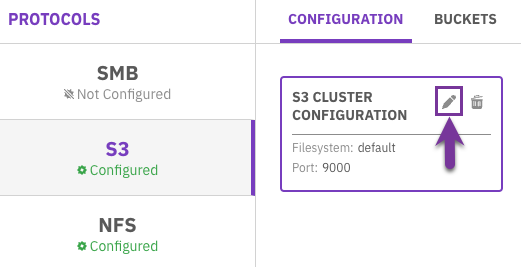
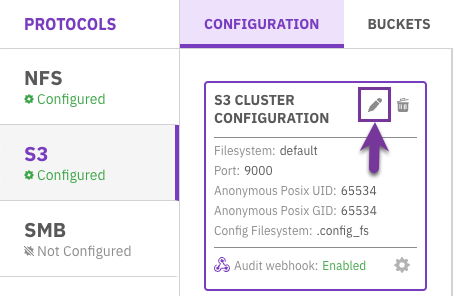
GITBOOK-366: S3: add comment about domain change + update screens (WEKAAPP-343301: v4.2.6)

diff --git a/additional-protocols/s3/s3-cluster-management/s3-cluster-management-1.md b/additional-protocols/s3/s3-cluster-management/s3-cluster-management-1.md
@@ -26,7 +26,7 @@ Use the following command line to create an S3 cluster:
 
 **Parameters**
 
-<table><thead><tr><th>Name</th><th width="327">Value</th><th>Default</th></tr></thead><tbody><tr><td><code>default-fs-name</code>*</td><td>The filesystem name to be used for the S3 service.</td><td></td></tr><tr><td><code>config-fs-name</code>*</td><td>The predefined filesystem name for maintaining the persisting cluster-wide protocol configurations.<br>Ensure the filesystem is already created. If not, create a filesystem with 100 GB capacity.</td><td></td></tr><tr><td><code>port</code></td><td>The port where the S3 service is exposed.<br>Do not set port 9001.</td><td>9000</td></tr><tr><td><code>key</code></td><td>The object store bucket access key ID.</td><td>As set when <a href="../../../fs/managing-object-stores/managing-object-stores-1.md#add-an-object-store-bucket">adding an object store bucket</a>.</td></tr><tr><td><code>secret</code></td><td>The object store bucket secret key.</td><td>As set when <a href="../../../fs/managing-object-stores/managing-object-stores-1.md#add-an-object-store-bucket">adding an object store bucket</a>.</td></tr><tr><td><code>max-buckets-limit</code></td><td>The maximum number of buckets that can be created.<br>Maximum value: 10000.</td><td></td></tr><tr><td><code>anonymous-posix-uid</code></td><td>POSIX UID for objects (when accessed via POSIX) created with anonymous access (for buckets with an IAM policy allowing that).</td><td>65534</td></tr><tr><td><code>anonymous-posix-gid</code></td><td>POSIX GID for objects (when accessed via POSIX) created with anonymous access (for buckets with an IAM policy allowing that).</td><td>65534</td></tr><tr><td><code>domain</code></td><td><p>Virtual hosted-style comma-separated domains.</p><p>Maximum number of characters: 1024.</p><p>Example: <code>--domain sub1.domain-name.com,sub3.domain-name.com</code>.<br>To remove the existing domain, set <code>""</code>.<br>Example: <code>--domain ""</code>.</p></td><td></td></tr><tr><td><code>container-id</code>*</td><td>Container IDs with a frontend process to serve the S3 service.<br>To ensure redundancy and fault tolerance a minimum of two containers is required for the S3 cluster. However, it is possible to create a single-container S3 cluster, which means there will be no redundancy.<br>If you add <code>all-servers</code> to the command, do not specify the list of containers in the <code>container-id</code> parameter.</td><td></td></tr><tr><td><code>all-servers</code>*</td><td>Use all backend servers to serve S3 commands.<br>If you add <code>all-servers</code> to the command, do not specify the list of containers in the <code>container-id</code> parameter.</td><td>None</td></tr></tbody></table>
+<table><thead><tr><th>Name</th><th width="327">Value</th><th>Default</th></tr></thead><tbody><tr><td><code>default-fs-name</code>*</td><td>The filesystem name to be used for the S3 service.</td><td></td></tr><tr><td><code>config-fs-name</code>*</td><td>The predefined filesystem name for maintaining the persisting cluster-wide protocol configurations.<br>Ensure the filesystem is already created. If not, create a filesystem with 100 GB capacity.</td><td></td></tr><tr><td><code>port</code></td><td>The port where the S3 service is exposed.<br>Do not set port 9001.</td><td>9000</td></tr><tr><td><code>key</code></td><td>The object store bucket access key ID.</td><td>As set when <a href="../../../fs/managing-object-stores/managing-object-stores-1.md#add-an-object-store-bucket">adding an object store bucket</a>.</td></tr><tr><td><code>secret</code></td><td>The object store bucket secret key.</td><td>As set when <a href="../../../fs/managing-object-stores/managing-object-stores-1.md#add-an-object-store-bucket">adding an object store bucket</a>.</td></tr><tr><td><code>max-buckets-limit</code></td><td>The maximum number of buckets that can be created.<br>Maximum value: 10000.</td><td></td></tr><tr><td><code>anonymous-posix-uid</code></td><td>POSIX UID for objects (when accessed via POSIX) created with anonymous access (for buckets with an IAM policy allowing that).</td><td>65534</td></tr><tr><td><code>anonymous-posix-gid</code></td><td>POSIX GID for objects (when accessed via POSIX) created with anonymous access (for buckets with an IAM policy allowing that).</td><td>65534</td></tr><tr><td><code>domain</code></td><td><p>Virtual hosted-style comma-separated domains.</p><p>Maximum number of characters: 1024.</p><p>Example: <code>--domain sub1.domain-name.com,sub3.domain-name.com</code>.<br>To remove the existing domain, set <code>""</code>.<br>Example: <code>--domain ""</code></p></td><td></td></tr><tr><td><code>container-id</code>*</td><td>Container IDs with a frontend process to serve the S3 service.<br>To ensure redundancy and fault tolerance a minimum of two containers is required for the S3 cluster. However, it is possible to create a single-container S3 cluster, which means there will be no redundancy.<br>If you add <code>all-servers</code> to the command, do not specify the list of containers in the <code>container-id</code> parameter.</td><td></td></tr><tr><td><code>all-servers</code>*</td><td>Use all backend servers to serve S3 commands.<br>If you add <code>all-servers</code> to the command, do not specify the list of containers in the <code>container-id</code> parameter.</td><td>None</td></tr></tbody></table>
 
 ## Check the status of the S3 cluster readiness
 
@@ -50,7 +50,7 @@ Use the following command line to update an S3 cluster configuration:
 
 **Parameters**
 
-<table><thead><tr><th>Name</th><th width="325">Value</th><th>Default</th></tr></thead><tbody><tr><td><code>key</code></td><td>The object store bucket access key ID.</td><td>As set when <a href="../../../fs/managing-object-stores/managing-object-stores-1.md#add-an-object-store-bucket">adding an object store bucket</a>.</td></tr><tr><td><code>secret</code></td><td>The object store bucket secret key.</td><td>As set when <a href="../../../fs/managing-object-stores/managing-object-stores-1.md#add-an-object-store-bucket">adding an object store bucket</a>.</td></tr><tr><td><code>port</code></td><td>The port where the S3 service is exposed.<br>Do not set port 9001.</td><td></td></tr><tr><td><code>anonymous-posix-uid</code></td><td>POSIX UID for objects  (when accessed via POSIX) created with anonymous access (for buckets with an IAM policy allowing that).</td><td>65534</td></tr><tr><td><code>anonymous-posix-gid</code></td><td>POSIX GID for objects  (when accessed via POSIX) created with anonymous access (for buckets with an IAM policy allowing that).</td><td>65534</td></tr><tr><td><code>domain</code></td><td><p>Virtual-hosted-style comma-separated domains.<br>Maximum number of characters: 1024.</p><p>Example: <code>--domain sub1.domain-name.com,sub3.domain-name.com</code>.<br>To remove the existing domain, set <code>""</code>. <br>Example: <code>--domain ""</code>.</p></td><td></td></tr><tr><td><code>container</code>*</td><td>Container IDs with a frontend process to serve the S3 service.<br>To ensure redundancy and fault tolerance a minimum of two containers is required for the S3 cluster. However, it is possible to create a single-container S3 cluster, which means there will be no redundancy.<br>If you add <code>all-servers</code> to the command, do not specify the list of containers in the <code>container</code> parameter.</td><td></td></tr><tr><td><code>all-servers</code>*</td><td>Use all backend servers to serve S3 commands.<br>If you add <code>all-servers</code> to the command, do not specify the list of containers in the <code>container</code> parameter.</td><td>None</td></tr></tbody></table>
+<table><thead><tr><th>Name</th><th width="325">Value</th><th>Default</th></tr></thead><tbody><tr><td><code>key</code></td><td>The object store bucket access key ID.</td><td>As set when <a href="../../../fs/managing-object-stores/managing-object-stores-1.md#add-an-object-store-bucket">adding an object store bucket</a>.</td></tr><tr><td><code>secret</code></td><td>The object store bucket secret key.</td><td>As set when <a href="../../../fs/managing-object-stores/managing-object-stores-1.md#add-an-object-store-bucket">adding an object store bucket</a>.</td></tr><tr><td><code>port</code></td><td>The port where the S3 service is exposed.<br>Do not set port 9001.</td><td></td></tr><tr><td><code>anonymous-posix-uid</code></td><td>POSIX UID for objects  (when accessed via POSIX) created with anonymous access (for buckets with an IAM policy allowing that).</td><td>65534</td></tr><tr><td><code>anonymous-posix-gid</code></td><td>POSIX GID for objects  (when accessed via POSIX) created with anonymous access (for buckets with an IAM policy allowing that).</td><td>65534</td></tr><tr><td><code>domain</code></td><td><p>Virtual-hosted-style comma-separated domains.<br>Maximum number of characters: 1024.</p><p>Example: <code>--domain sub1.domain-name.com,sub3.domain-name.com</code>.<br></p><p>To remove the existing domain, set <code>""</code>. <br>Example: <code>--domain ""</code></p><p></p><p><strong>Note:</strong> Modifying the domain parameter value triggers an automatic restart of all S3 containers, resulting in I/O disruption.</p></td><td></td></tr><tr><td><code>container</code>*</td><td><p>Container IDs associated with a frontend process responsible for serving the S3 service.</p><p></p><p>For redundancy and fault tolerance, a minimum of two containers is necessary for the S3 cluster. Nevertheless, it is possible to create a single-container S3 cluster, which means there will be no redundancy.</p><p></p><p>If you include <code>all-servers</code> in the command, do not specify a list of containers in the <code>container</code> parameter.</p></td><td></td></tr><tr><td><code>all-servers</code>*</td><td>Use all backend servers to serve S3 commands.<br>If you add <code>all-servers</code> to the command, do not specify the list of containers in the <code>container</code> parameter.</td><td>None</td></tr></tbody></table>
 
 {% hint style="info" %}
 Instead of using the `weka s3 cluster update` command for adding or removing containers, use the commands `weka s3 cluster containers add` or `weka s3 cluster containers remove`. It is more convenient when managing an S3 cluster with many containers.

diff --git a/additional-protocols/s3/s3-cluster-management/s3-cluster-management.md b/additional-protocols/s3/s3-cluster-management/s3-cluster-management.md
@@ -49,9 +49,14 @@ You can update the port and the servers to participate in the S3 cluster.
 ![Edit an S3 cluster configuration](../../../.gitbook/assets/wmng\_s3\_edit\_configuration\_button.png)
 
 4. Update the properties as required. Do not set port 9001.
+
+{% hint style="warning" %}
+Modifying the domain triggers an automatic restart of all S3 containers, resulting in I/O disruption.
+{% endhint %}
+
 5. Select **Save**.
 
-![Edit S3 Cluster Configuration](../../../.gitbook/assets/wmng\_s3\_edit\_configuration\_dialog.png)
+![Edit S3 Cluster Configuration](../../../.gitbook/assets/wmng\_S3\_edit\_configuration.png)
 
 ## Delete an S3 cluster configuration
 
